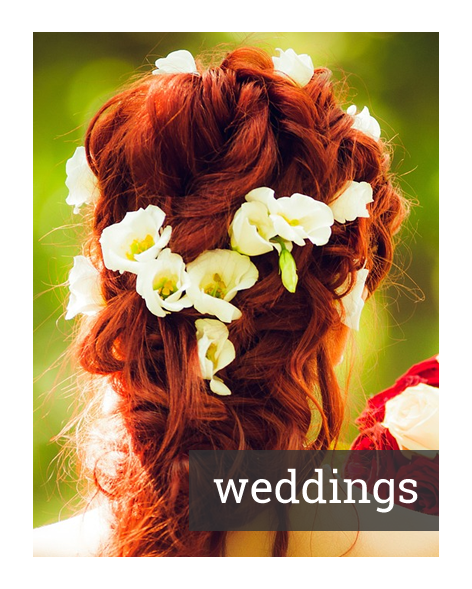
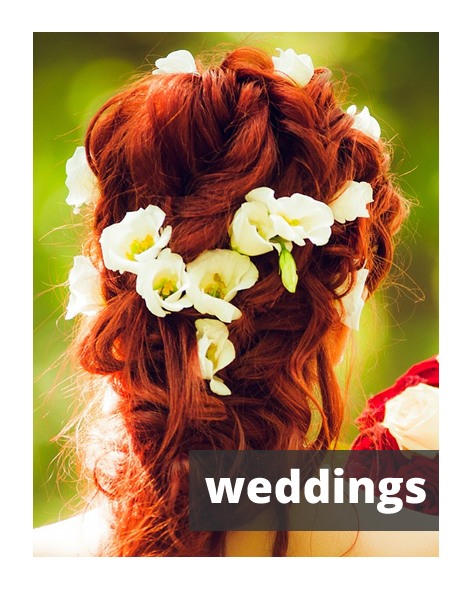
changed fonts

Changed region(s): [[0.4153, 0.7946, 0.9195, 0.8862]]

diff --git a/weddings.html b/weddings.html
@@ -59,7 +59,7 @@
       <ul class="nav navbar-nav navbar-right social">
           <li><a href="https://www.facebook.com/MEJOR-BY-V-WIND-255409837867274/?fref=ts" target="_blank"><i class="fa fa-lg fa-facebook-official"></i></a></li>
           <li><a href="mailto:iosifidouvalia@hotmail.com"><i class="fa fa-lg fa-envelope"></i></a></li>
-          <li><a href="en-home.html"class="greek">English</a></li>
+          <li><a href="en-home.html">English</a></li>
       </ul>
         </div><!--/.nav-collapse -->
       </div>

diff --git a/css/styles.css b/css/styles.css
@@ -18,8 +18,8 @@
 body {
     background-color: #222;
     color: #fff;
-    font-family: 'Roboto', sans-serif;
-    font-weight: 100;
+    font-family: 'Open Sans', sans-serif;
+    font-weight: 300;
     padding-top: 70px;     
 }
 
@@ -86,7 +86,6 @@ p,li {
 }
 
 h1 {
-  font-family: 'Roboto Slab', serif;
   font-size: 3em;
   font-weight: 100;
   letter-spacing: 2px;
@@ -101,7 +100,6 @@ h2 {
 
 .pagetitle {
   color: #ab47bC; 
-  font-family: 'Roboto', sans-serif;
 }
 
 address {

diff --git a/index.html b/index.html
@@ -13,7 +13,7 @@
     <!-- Custom CSS -->
     <link href="css/styles.css" rel="stylesheet">
     <!-- Google fonts --> 
-    <link href="https://fonts.googleapis.com/css?family=Roboto+Slab:100,700|Roboto:100,700" rel="stylesheet">
+    <link href="https://fonts.googleapis.com/css?family=Open+Sans:300,400,800&amp;subset=greek" rel="stylesheet">
 </head>
 <body>
     <!-- Navigation -->
